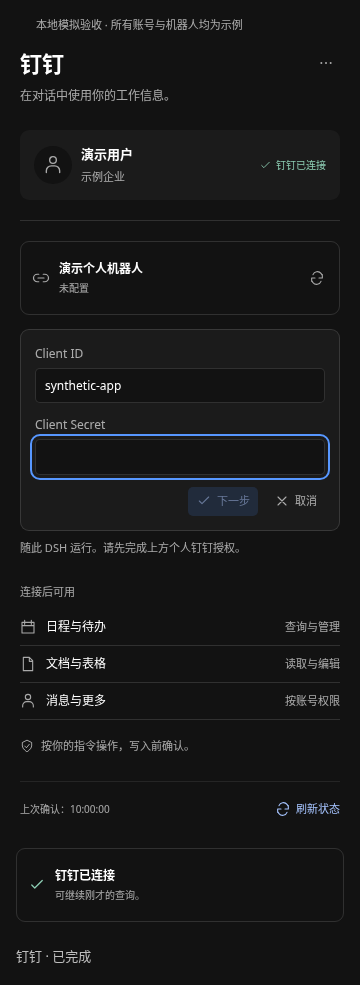
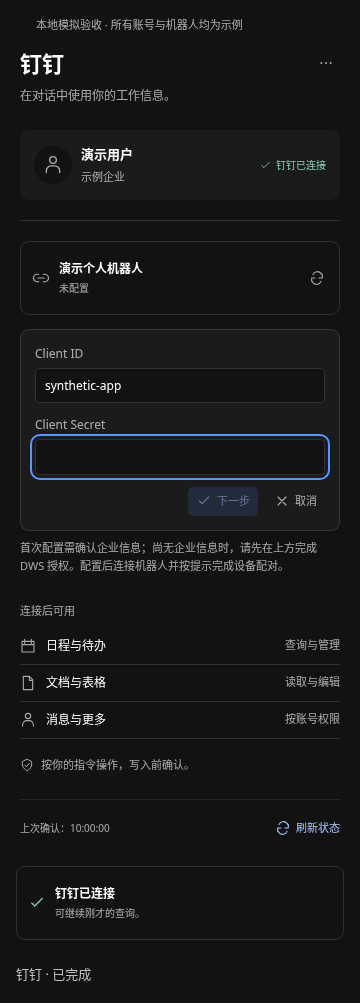
fix(dingtalk): clarify personal robot pairing prerequisites

diff --git a/dsh-dingtalk/enhancements/src/client/relay.ts b/dsh-dingtalk/enhancements/src/client/relay.ts
@@ -5,6 +5,8 @@ import { localize } from './i18n.js';
 import { showAuthorizationLoading } from './loading.js';
 interface State { status: string; url?: string; authorizeUrl?: string | undefined; expires?: number | undefined; mode?: 'personal' | 'enterprise'; configured?: boolean; hosting?: boolean; callbackUrl?: string; displayName?: string }
 const labels: Record<string, string> = { device_in_use: '此配置已在另一 DSH 实例运行', loading: '检查中', unavailable: '当前通道未提供连接管理', unconfigured: '未配置', enterprise_configuration_invalid: '企业配置有误', mode_conflict: '请先停用个人托管', local_configuration_invalid: '本机配置有误', gateway_in_use: '端口被占用或另一 DSH 正在托管', gateway_unavailable: '本机服务暂不可用', stream_failed: '机器人消息连接失败', disconnected: '未连接', connecting: '连接中', authorizing: '等待登录确认', connected: '已连接', offline: '离线 · 正在重连', auth_required: '请重新授权', replaced: '已在其他设备连接', cancelled: '已取消', expired: '登录已超时', failed: '连接未完成' };
+const firstConfigurationHelp = '首次配置需确认企业信息；尚无企业信息时，请先在上方完成 DWS 授权。配置后连接机器人并按提示完成设备配对。';
+const personalConnectionHelp = '机器人通过应用登录与此设备配对。钉钉数据授权在上方单独管理。';
 const uncertainMessage = '机器人操作结果尚未确认，请刷新状态。';
 const actionErrors: Record<string, string> = { auth_required: '请先完成上方钉钉账号授权。', invalid_credentials: '应用凭据无效或验证暂不可用，请检查后重试。', identity_mismatch: '请使用与当前 DWS 相同的企业账号。', gateway_in_use: '本机端口被占用，或另一 DSH 正在托管此机器人。', device_in_use: '此配置已在另一 DSH 实例运行。', stop_before_configure: '请先停止托管，再修改应用凭据。' };
 export function RelaySection({ store, language = 'zh' }: { store: ConnectionStore; language?: string }) {
@@ -67,7 +69,10 @@ export function RelaySection({ store, language = 'zh' }: { store: ConnectionStor
       closePopup(); const code = (failure as { reasonCode?: string }).reasonCode || '';
       recover = failure === deadline;
       if (recover) { recoveryRequired.current = true; setUncertain(true); }
-      setError(recover ? uncertainMessage : actionErrors[code] || '连接未完成，请检查应用设置后重试。');
+      const message = personal && code === 'auth_required'
+        ? method === 'configure' && !state.configured ? firstConfigurationHelp : '请重新连接机器人，按提示完成应用登录与设备配对。'
+        : personal && code === 'identity_mismatch' ? '请使用此机器人所属企业的账号完成配对。' : actionErrors[code];
+      setError(recover ? uncertainMessage : message || '连接未完成，请检查应用设置后重试。');
     } finally {
       if (timer !== undefined) { clearTimeout(timer); readTimers.current.delete(timer); }
       if (active.current && generation.current === revision) { mutating.current = false; setBusy(false); if (recover) void refresh(); }
@@ -76,7 +81,7 @@ export function RelaySection({ store, language = 'zh' }: { store: ConnectionStor
   const blocked = busy || uncertain;
   const canDisconnect = ['connected', 'authorizing', 'offline', 'auth_required'].includes(state.status);
   const unavailable = ['enterprise_configuration_invalid', 'mode_conflict', 'local_configuration_invalid', 'device_in_use', 'authorizing', 'connected', 'connecting'].includes(state.status);
-  const status = state.status === 'loading' && statusError ? '状态未知' : labels[state.status] || '状态未知';
+  const status = state.status === 'loading' && statusError ? '状态未知' : personal && state.status === 'auth_required' ? '请重新登录机器人' : labels[state.status] || '状态未知';
   const tone = statusError ? 'warning' : state.status === 'connected' ? 'success' : ['failed', 'offline', 'auth_required', 'expired', 'stream_failed', 'enterprise_configuration_invalid', 'local_configuration_invalid', 'gateway_unavailable', 'gateway_in_use', 'mode_conflict', 'device_in_use'].includes(state.status) ? 'warning' : undefined;
   return localize(h('section', { className: 'dsh-dt-robot dsh-dt-section', 'aria-label': '钉钉机器人', 'aria-busy': busy || refreshing },
     h('div', { className: 'dsh-dt-strip', 'data-tone': tone },
@@ -96,7 +101,7 @@ export function RelaySection({ store, language = 'zh' }: { store: ConnectionStor
     personal && state.configured && state.status !== 'connected' && !editing ? h('div', { className: 'dsh-dt-callback' }, h('p', null, '在钉钉应用的安全设置中登记重定向 URL：'), h('code', null, state.callbackUrl), h(IconButton, { label: '复制回调地址', caption: '复制', symbol: 'copy', disabled: blocked || !state.callbackUrl, onClick: () => { void (async () => { try { await navigator.clipboard.writeText(state.callbackUrl || ''); } catch { if (active.current) setError('请手动复制回调地址。'); } })(); } })) : null,
     legacy && !editing ? h('div', { className: 'dsh-dt-form' }, h('label', null, '网关地址', h('input', { placeholder: 'wss://gateway.example/relay', value: url, disabled: blocked || state.status === 'authorizing', onChange: (e: any) => setUrl(e.target.value) }))) : null,
     personal && state.hosting && !editing ? h('div', { className: 'dsh-dt-form-actions' }, h(IconButton, { label: '停止托管', caption: '停止托管', symbol: 'disconnect', className: 'dsh-dt-danger', disabled: blocked, onClick: () => void action('stop') })) : null,
-    state.status === 'authorizing' && state.authorizeUrl ? h('p', { className: 'dsh-dt-notice' }, '请在打开的页面确认。', ' ', h('a', { className: 'dsh-dt-link', href: state.authorizeUrl, target: '_blank', rel: 'noopener noreferrer' }, '继续登录')) : null,
-    state.status !== 'connected' && state.status !== 'authorizing' ? h('p', { className: 'dsh-dt-notice' }, personal ? '随此 DSH 运行。请先完成上方个人钉钉授权。' : '连接后，机器人消息将交给这台 DSH。') : null,
+    state.status === 'authorizing' && state.authorizeUrl ? h('p', { className: 'dsh-dt-notice' }, '请在机器人应用登录页确认账号与此设备的配对。', ' ', h('a', { className: 'dsh-dt-link', href: state.authorizeUrl, target: '_blank', rel: 'noopener noreferrer' }, '继续登录')) : null,
+    state.status !== 'connected' && state.status !== 'authorizing' ? h('p', { className: 'dsh-dt-notice' }, personal ? state.configured ? personalConnectionHelp : firstConfigurationHelp : '连接后，机器人消息将交给这台 DSH。') : null,
     error ? h('p', { role: 'alert', className: 'dsh-dt-notice', 'data-tone': 'warning' }, error) : null), language);
 }

diff --git a/dsh-dingtalk/enhancements/src/client/i18n.ts b/dsh-dingtalk/enhancements/src/client/i18n.ts
@@ -2,6 +2,13 @@ import { Children, cloneElement, isValidElement } from 'react';
 import type { ReactNode, ReactElement } from 'react';
 export interface LocaleFace { getSnapshot(): { active: string }; subscribe(fn: () => void): () => void }
 const english: Record<string, string> = {
+  '首次配置需确认企业信息；尚无企业信息时，请先在上方完成 DWS 授权。配置后连接机器人并按提示完成设备配对。': 'First-time setup needs confirmed organization details. If none are available, authorize DWS above to obtain them. Then connect the robot and follow the device pairing prompts.',
+  '机器人通过应用登录与此设备配对。钉钉数据授权在上方单独管理。': 'The robot pairs with this device through application sign-in. DingTalk data authorization is managed separately above.',
+  '请重新连接机器人，按提示完成应用登录与设备配对。': 'Reconnect the robot and follow the application sign-in and device pairing prompts.',
+  '请使用此机器人所属企业的账号完成配对。': 'Pair using an account from the organization configured for this robot.',
+  '请重新登录机器人': 'Sign in to the robot again',
+  '请在机器人应用登录页确认账号与此设备的配对。': 'Confirm the account and device pairing on the robot application sign-in page.',
+
   '机器人操作结果尚未确认，请刷新状态。': 'Robot action outcome is unconfirmed. Refresh status.',
   '状态未知': 'Status unknown', '刷新机器人状态': 'Refresh robot status', '正在刷新机器人状态…': 'Refreshing robot status…',
   '暂时无法读取机器人状态，请重试。': 'Could not read robot status. Retry.', '机器人状态读取失败；显示上次确认状态。': 'Robot status read failed; showing the last confirmed status.',
@@ -16,7 +23,7 @@ const english: Record<string, string> = {
   '此配置已在另一 DSH 实例运行。': 'This configuration is running in another DSH instance.', '请先停止托管，再修改应用凭据。': 'Stop hosting before editing application credentials.',
   '连接未完成，请检查应用设置后重试。': 'Connection incomplete. Check application settings and retry.', '在钉钉应用的安全设置中登记重定向 URL：': 'Register this redirect URL in the DingTalk application security settings:',
   '复制回调地址': 'Copy callback URL', '请手动复制回调地址。': 'Copy the callback URL manually.', '请在打开的页面确认。': 'Confirm on the page that opened.',
-  '随此 DSH 运行。请先完成上方个人钉钉授权。': 'Runs with this DSH instance. Complete personal DingTalk authorization above first.', '连接后，机器人消息将交给这台 DSH。': 'Once connected, robot messages go to this DSH instance.',
+  '连接后，机器人消息将交给这台 DSH。': 'Once connected, robot messages go to this DSH instance.',
 
   '检查中': 'Checking', '正在读取连接状态，请稍候。': 'Reading connection status. Please wait.',
   '连接状态读取失败': 'Could not read connection status', '暂无法确认授权状态，请刷新重试。': 'Authorization status is unknown. Refresh to retry.',

diff --git a/dsh-dingtalk/enhancements/docs/evidence/connection-status-ui/validation.md b/dsh-dingtalk/enhancements/docs/evidence/connection-status-ui/validation.md
@@ -3,7 +3,7 @@
 ## 基线与范围
 
 - 父分支：`codex/dingtalk-server-runtime`；开始开发时远端父分支、UI 子分支与并行 #27 子分支均为 `0c50a3b063ecc87ee14b51d536bcf8c289af37d7`，与 PR #25 实际 head 一致。
-- 提交前再次核对：父分支与 UI 远端仍为上述基线；并行 #27 已到 `18fc898b0baac15dfbb316bb4c5dcdc3e0995fb8`，其修改文件与本单无重叠，没有合入该兄弟分支。
+- 提交前再次核对：父分支与 UI 远端仍为上述基线；并行 #27 已到 `91d54a124f33e35379bef8bb587ecf6745ab6ef6`，其修改文件与本单无重叠，没有合入该兄弟分支。
 - 只修改 `enhancements/src/client/`、对应测试及本单浏览器脚本/证据；不修改 Host、Connector 契约、工具权限、业务白名单或机器人身份校验。
 - 已知授权事务的取消处理属于 #26 的“cancel 与旧响应竞态”验收：`begin` 已返回事务但 `callback-origin` 仍在读取时，Client 必须调用已有 `cancel` RPC。没有新增 RPC 或修改父 PR 与 #27 的业务代码。
 - 检出仓库及当前工作区均未包含 `.agents/skills`。执行 `dsh-dingtalk/AGENTS.md`，不发布、不合并、不部署、不操作 39/43 或真实机器人。
@@ -19,10 +19,10 @@
 | --- | --- |
 | `pnpm run ci` 的扫描、格式、类型、构建 | 通过 |
 | 主测试集 | 425 项，418 通过、0 失败、7 跳过 |
-| 全量 enhancements | 123 项，114 通过、4 个下述基线环境失败、5 跳过 |
-| Store/UI/机器人/生命周期/remote/UI RPC/tail 定向回归 | 70/70 通过，无跳过；Store 单独 39/39 |
-| `pnpm run test:pack` | 通过，402 文件，解包大小 4,724,974 bytes |
-| 新增浏览器验收 | 12 组通过、6 张合成截图，无外部请求/浏览器错误 |
+| 全量 enhancements | 127 项，118 通过、4 个下述基线环境失败、5 跳过 |
+| Store/UI/机器人/生命周期/remote/UI RPC/tail 定向回归 | 74/74 通过，无跳过；Store 单独 39/39 |
+| `pnpm run test:pack` | 通过，402 文件，解包大小 4,729,136 bytes |
+| 新增浏览器验收 | 13 组通过、7 张合成截图，无外部请求/浏览器错误 |
 | 既有机器人浏览器验收 | 通过 |
 | 既有完整 Host 浏览器验收 | 前置 Windows 固定二进制缺失，未启动浏览器 |
 
@@ -54,3 +54,14 @@ DSH_TEST_BROWSER=/usr/bin/chromium node enhancements/scripts/verify-connection-s
 未验证完整 DSH Web/Desktop 外壳、真实企业 OAuth/权限、真实 Connector 网络及机器人收发。既有完整 Host 浏览器脚本因同一固定 Windows 二进制前置文件缺失，在启动浏览器前停止；[既有浏览器检查记录](existing-browser-checks.txt)包含结果。
 
 如果 `begin` 响应在事务 ID 送达 Client 前丢失，Client 无法定向取消未知 ID；本单不会假报成功或自动重试授权，仍依赖既有 Host 事务过期/校验机制。本单只撤销已知事务，不扩展服务端协议。
+
+
+## 与 PR #28 的文案交接
+
+核对 #28 的 `codex/dingtalk-workspace-tool-policy@91d54a124f33e35379bef8bb587ecf6745ab6ef6`：personal 已配置机器人的应用 OAuth、配对 owner、消息与普通宿主工具不再借用当前 DWS identity；`dingtalk_call` 继续独立验证 DWS 数据授权。enterprise 和 legacy 没有同样放开，本单保留对应 DWS 错误提示。
+
+首次 personal 配置仍需要 corpId：Host 优先使用已有配置或已确认渠道身份中的企业信息，均不存在时才从 DWS identity 取得。因此未配置提示限定为“尚无企业信息时”先完成 DWS 授权；已配置状态只说明机器人应用登录/设备配对与单独的数据授权。personal 的 `auth_required` 按首次 configure 与已有配置的连接/重配区分，`identity_mismatch` 指向机器人的企业账号而非当前 DWS 账号。中文及英文都覆盖。
+
+新增 4 组机器人 UI 回归，覆盖上述状态、错误、配对提示及 enterprise/legacy 维持原契约；浏览器新增 DWS 未连接但已配置 personal 可进入机器人配对的模拟场景与截图。此处仅验证 UI 对 #28 契约的展示，不声称当前独立 UI 分支已包含 #28 的 Host 实现。
+
+两个 PR 继续共同基于 `codex/dingtalk-server-runtime@0c50a3b`，文件无重叠。本分支不合入、覆盖或改写 #28 文件。#28 的运行时授权解耦应先于或与本次 Client 文案一并交付；保留两个 PR 各自改动并一并验收。不要用整文件覆盖或仅凭新文案认定旧 Host 已解耦。未执行合并、部署或真实机器人联调。

diff --git a/dsh-dingtalk/enhancements/docs/evidence/connection-status-ui/README.md b/dsh-dingtalk/enhancements/docs/evidence/connection-status-ui/README.md
@@ -18,6 +18,7 @@ DSH_TEST_BROWSER=/usr/bin/chromium node enhancements/scripts/verify-connection-s
 | [stale-connected-light.png](stale-connected-light.png) | 已连接账户保留，并标注读取失败/待更新 |
 | [stale-connected-dark-mobile.png](stale-connected-dark-mobile.png) | 同一陈旧状态，深色 360px 布局 |
 | [unknown-envelope-dark-mobile.png](unknown-envelope-dark-mobile.png) | 模拟 Host RPC 成功但结果为 unknown，仍显示旧账户与原确认时间 |
+| [personal-pairing-dws-unlinked.png](personal-pairing-dws-unlinked.png) | DWS 未连接时，已配置个人机器人只提示应用登录与设备配对 |
 | [personal-config-dark-mobile.png](personal-config-dark-mobile.png) | 个人机器人配置表单，深色 360px 布局 |
 | [independent-connected-light.png](independent-connected-light.png) | DWS 与企业机器人各自显示已连接 |
 
